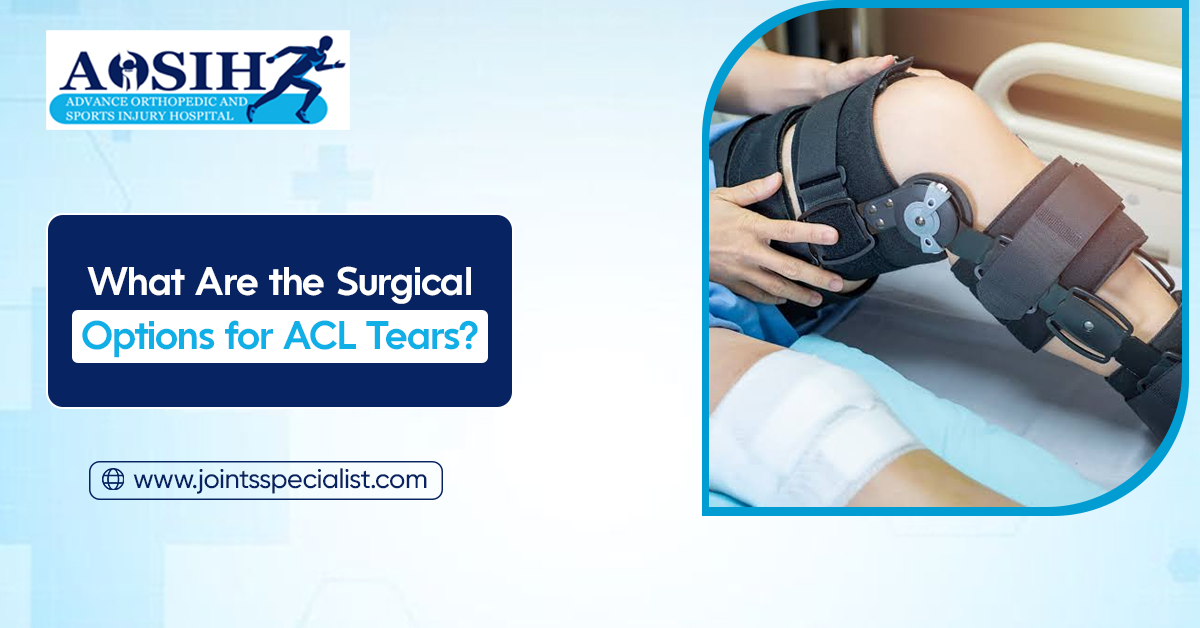
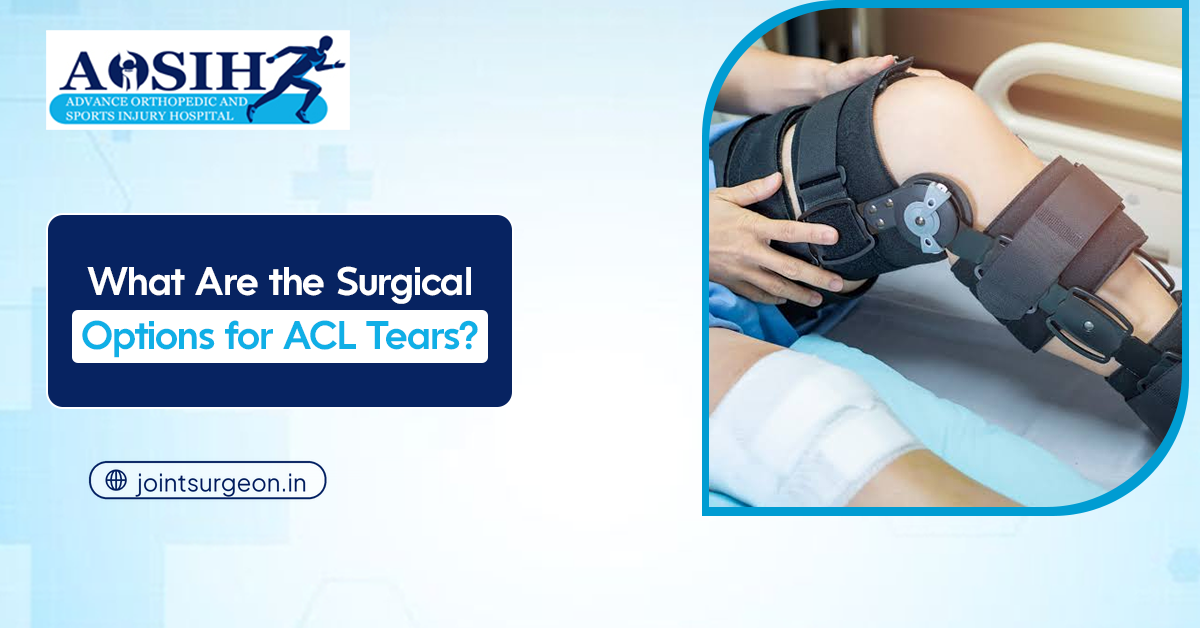
fix: update graphic domain to jointsurgeon.in and resolve doctor image placement on about page

Changed region(s): [[0.0617, 0.7261, 0.37, 0.8169]]

diff --git a/about.html b/about.html
@@ -41,8 +41,8 @@
   <link rel="preconnect" href="https://fonts.googleapis.com">
   <link rel="preconnect" href="https://fonts.gstatic.com" crossorigin>
   <link href="https://fonts.googleapis.com/css2?family=Plus+Jakarta+Sans:wght@300;400;500;600;700;800&display=swap" rel="stylesheet">
-  <link rel="stylesheet" href="css/style.css?v=1.5">
-  <link rel="stylesheet" href="css/liquid-motion.css?v=1.5">
+  <link rel="stylesheet" href="css/style.css?v=1.6">
+  <link rel="stylesheet" href="css/liquid-motion.css?v=1.6">
 
   <!-- JSON-LD Structured Data for Search, Local & Answer Engines (AEO) -->
   <script type="application/ld+json">
@@ -522,9 +522,28 @@
           <strong>Dr. Naveen Sharma (MS Ortho, MBBS)</strong> is recognized as one of India's foremost authorities on Direct Anterior Approach (DAA) Hip Replacement and Subvastus Muscle-Sparing Knee Arthroplasty.
         </p>
         
-        <div class="article-img-box">
-          <img src="images/doctor_image.png" alt="Dr. Naveen Sharma Senior Joint Surgeon" onerror="this.onerror=null;this.src='images/doc_profile_portrait.jpg';">
-          <div class="caption">Dr. Naveen Sharma — Director, Advance Orthopedic &amp; Sports Injury Hospital (AOSIH), Jaipur</div>
+        <div class="doc-profile-card-about card-tilt-3d">
+          <div class="doc-profile-avatar-wrap">
+            <img src="images/doctor_image.png" alt="Dr. Naveen Sharma Senior Joint Surgeon" onerror="this.onerror=null;this.src='images/doc_profile_portrait.jpg';">
+          </div>
+          <div class="doc-profile-info">
+            <span class="tag">Director &amp; Chief Joint Surgeon</span>
+            <h3 class="doc-name">Dr. Naveen Sharma</h3>
+            <div class="doc-profile-qualification">
+              MBBS, MS (Orthopedics) — KEM Hospital &amp; Seth G.S. Medical College, Mumbai
+            </div>
+            <p class="doc-summary">
+              Recognized as Rajasthan’s foremost authority on <strong>Direct Anterior Approach (DAA) Hip Replacement</strong> and <strong>Subvastus Fast-Track Knee Arthroplasty</strong> with over 21 years of surgical tenure and 20,000+ completed procedures.
+            </p>
+            <div class="doc-creds-pills">
+              <span class="cred-pill">KEM Hospital Mumbai Alumnus</span>
+              <span class="cred-pill">Ex-AIIMS New Delhi Senior Resident</span>
+              <span class="cred-pill">ISAKOS Fellow (Germany)</span>
+              <span class="cred-pill">Arthroplasty Fellow (South Korea)</span>
+              <span class="cred-pill">21+ Years Experience</span>
+              <span class="cred-pill">20,000+ Surgeries</span>
+            </div>
+          </div>
         </div>
 
         <h3>Academic Rigor &amp; International Training</h3>

diff --git a/css/style.css b/css/style.css
@@ -862,6 +862,106 @@ button, input, select, textarea {
   font-style: italic;
 }
 
+/* Doctor Profile Card (About Page) */
+.doc-profile-card-about {
+  display: grid;
+  grid-template-columns: 280px 1fr;
+  gap: 28px;
+  background: #FFFFFF;
+  border: 1px solid var(--border);
+  border-radius: var(--radius-lg);
+  padding: 24px;
+  margin: 28px 0 32px;
+  box-shadow: var(--shadow-md);
+  align-items: center;
+  scroll-margin-top: 90px;
+}
+
+.doc-profile-avatar-wrap {
+  background: linear-gradient(135deg, #F0F9FA 0%, #E0F7FA 100%);
+  border-radius: var(--radius-md);
+  border: 1px solid rgba(0, 151, 167, 0.25);
+  display: flex;
+  align-items: flex-end;
+  justify-content: center;
+  height: 340px;
+  overflow: hidden;
+}
+
+.doc-profile-avatar-wrap img {
+  max-height: 335px;
+  width: auto;
+  max-width: 100%;
+  object-fit: contain;
+  display: block;
+  filter: drop-shadow(0 8px 16px rgba(0, 0, 0, 0.12));
+}
+
+.doc-profile-info .tag {
+  display: inline-block;
+  margin-bottom: 8px;
+}
+
+.doc-profile-info .doc-name {
+  font-size: 22px;
+  font-weight: 800;
+  color: var(--navy);
+  margin-bottom: 6px;
+  line-height: 1.25;
+}
+
+.doc-profile-qualification {
+  font-size: 13.5px;
+  color: var(--teal);
+  font-weight: 700;
+  margin-bottom: 12px;
+  line-height: 1.4;
+}
+
+.doc-profile-summary {
+  font-size: 13.5px;
+  color: var(--text-muted);
+  line-height: 1.6;
+  margin-bottom: 16px;
+}
+
+.doc-creds-pills {
+  display: flex;
+  flex-wrap: wrap;
+  gap: 8px;
+}
+
+.doc-creds-pills .cred-pill {
+  background: var(--teal-light);
+  color: var(--teal-dark);
+  font-size: 11.5px;
+  font-weight: 600;
+  padding: 4px 10px;
+  border-radius: 50px;
+  border: 1px solid rgba(0, 151, 167, 0.15);
+}
+
+@media (max-width: 768px) {
+  .doc-profile-card-about {
+    grid-template-columns: 1fr;
+    gap: 20px;
+    padding: 20px;
+    text-align: center;
+  }
+  .doc-profile-avatar-wrap {
+    height: 300px;
+    max-width: 280px;
+    margin: 0 auto;
+  }
+  .doc-profile-avatar-wrap img {
+    max-height: 295px;
+  }
+  .doc-creds-pills {
+    justify-content: center;
+  }
+}
+
+
 /* Hospital Comparison Table */
 .clinical-table-wrapper {
   overflow-x: auto;
